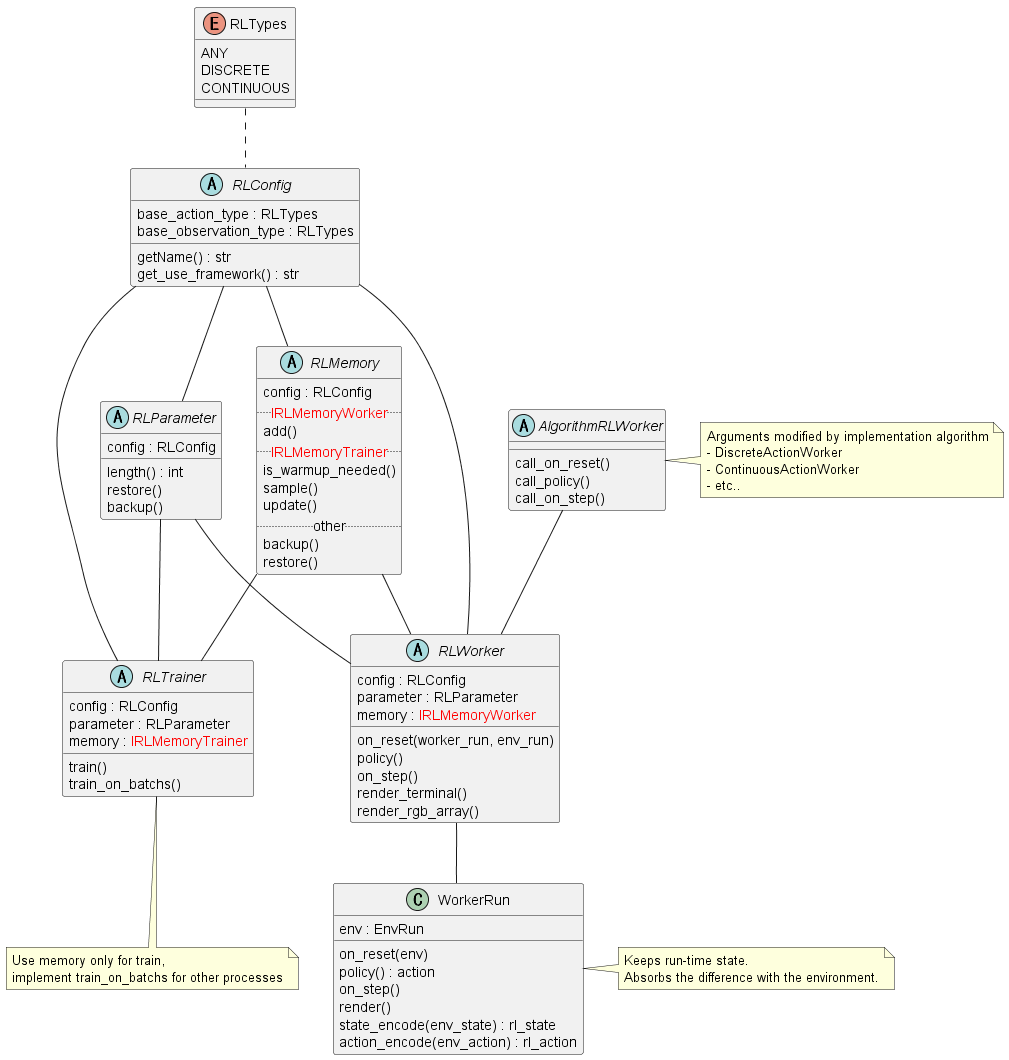
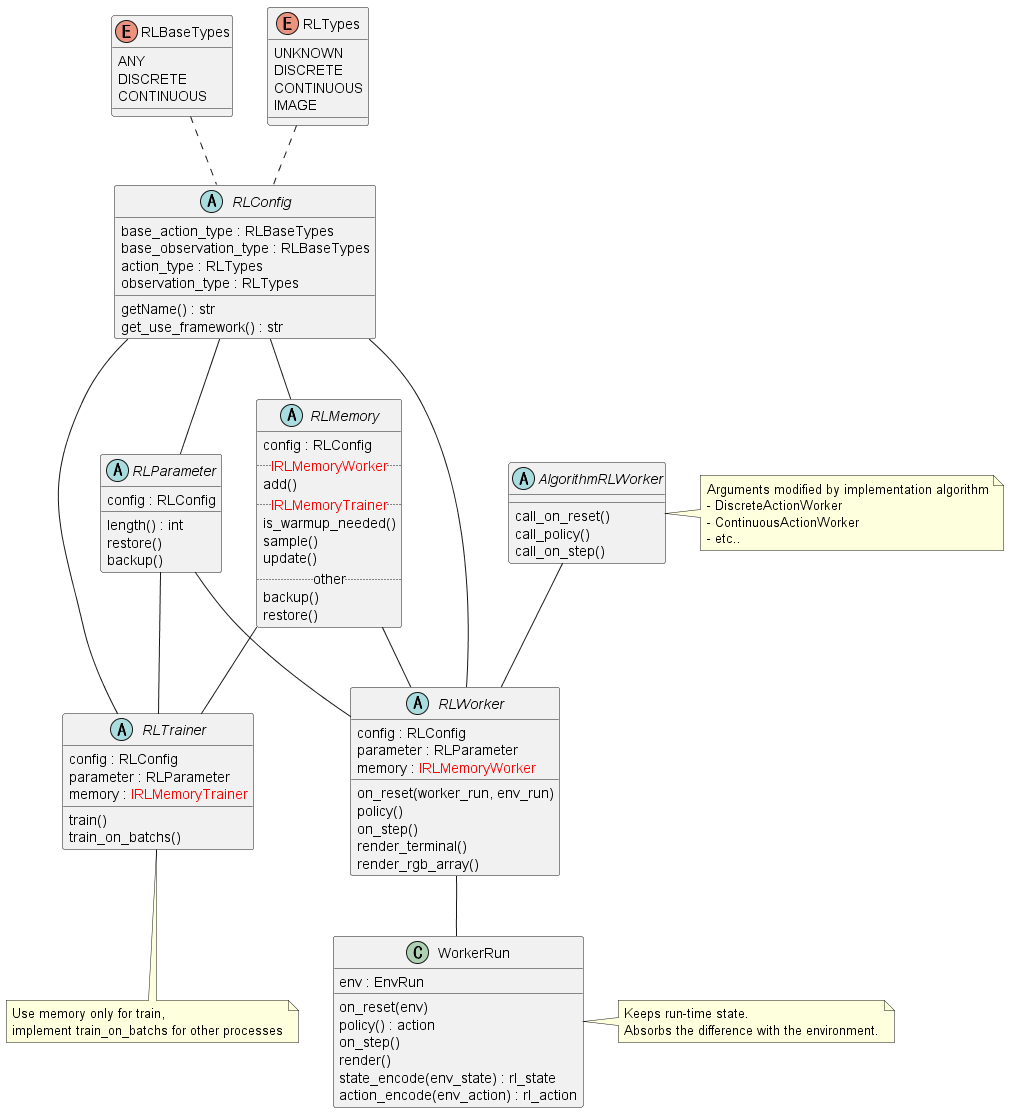
[docs_src.pages.framework_detail] update: InterfaceTypeを厳密に定義、obsのdiscreteのみnp.ndarrayからlist[int]に変更

diff --git a/docs_src/pages/framework_detail.rst b/docs_src/pages/framework_detail.rst
@@ -42,44 +42,50 @@ Class diagram
 Interface Type
 ----------------
 
-+ Env input/output type
++ Env type
 
 .. list-table::
    :widths: 10 10
    :header-rows: 0
 
-   * -  
+   * - Env
      - Type
    * - Action
-     - Space
+     - SpaceBase
    * - Observation
-     - Space
+     - SpaceBase
 
 
-+ RL input/output type
++ RL type
 
 .. list-table::
-   :widths: 10 10 10
+   :widths: 5 5 7
    :header-rows: 0
 
-   * - 
-     - 
+   * - RL
+     - RLTypes
      - Type
-   * - Discrete
-     - Action
+   * - Action
+     - Discrete
      - int
-   * - Discrete
-     - Observation
-     - NDArray[int]
-   * - Continuous
-     - Action
+   * - Action
+     - Continuous
      - list[float]
-   * - Continuous
-     - Observation
+   * - Action
+     - Image
+     - NDArray[np.uint8]
+   * - Observation
+     - Discrete
+     - list[int]
+   * - Observation
+     - Continuous
      - NDArray[np.float32]
+   * - Observation
+     - Image
+     - NDArray[np.float32]
+  
 
-
-+ Space(srl.base.env.spaces)
++ SpaceBase(srl.base.env.spaces)
 
 .. list-table::
    :widths: 20 10
@@ -96,4 +102,6 @@ Interface Type
    * - ArrayContinuousSpace
      - list[float]
    * - BoxSpace
-     - NDArray[np.float32]
+     - NDArray[AnyType]
+   * - ArraySpace
+     - list[SpaceBase]
